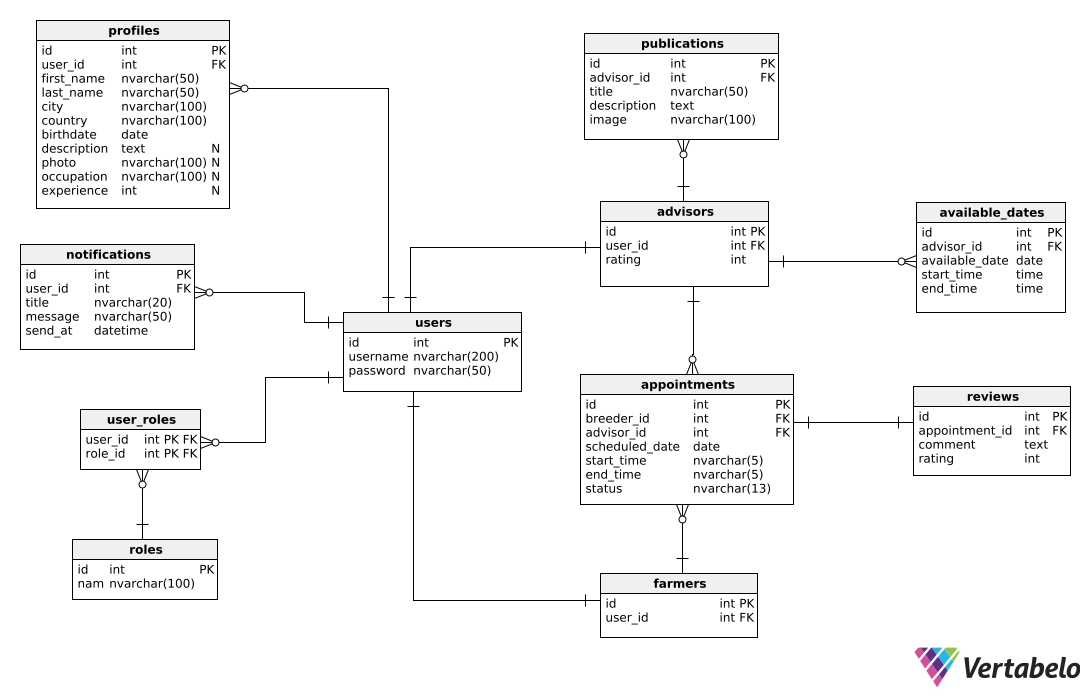
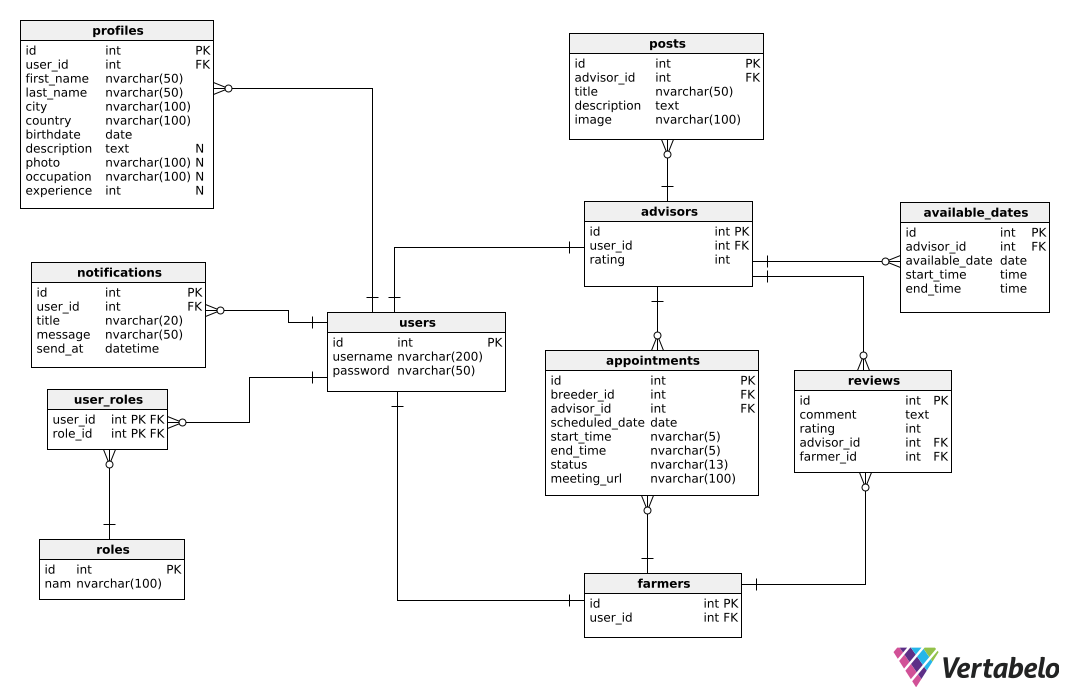
docs: update publication -> post

diff --git a/README.md b/README.md
@@ -2455,7 +2455,7 @@ Para Agrosupport, hemos desarrollado un sistema de etiquetado claro y conciso pa
       <td>Se implementará un botón que permitirá visualizar la información de las citas registradas.</td>
   </tr>
   <tr>
-      <th>My publications - Mis publicaciones</th>
+      <th>My posts - Mis publicaciones</th>
       <td>Se implementará un botón que permitirá al usuario ver el historial de sus publicaciones de ofertas de trabajo.</td>
   </tr>
   <tr>
@@ -3257,14 +3257,14 @@ _Imagen 165. Diagrama de Componentes: Profile_
 
 _Imagen 166. Diagrama de Componentes: Appointment_
 
-<img alt="Diagrama de Componentes: Publication" src="img/C4-PublicationComponentDiagram.png">
+<img alt="Diagrama de Componentes: Post" src="img/C4-PublicationComponentDiagram.png">
 
-_Imagen 167. Diagrama de Componentes: Publication_
+_Imagen 167. Diagrama de Componentes: Post_
 
 ### 3.2.2. Software Object-Oriented Design
 #### 3.2.2.1. Class Diagrams
 
-Los diagramas de clase son herramientas cruciales en el diseño de sistemas orientados a objetos, ya que proporcionan una representación visual de las clases y sus relaciones dentro del sistema. En esta sección, se presentarán los diagramas de clase que detallan la estructura de cada bounded context: Profile, Appointment y Publication.
+Los diagramas de clase son herramientas cruciales en el diseño de sistemas orientados a objetos, ya que proporcionan una representación visual de las clases y sus relaciones dentro del sistema. En esta sección, se presentarán los diagramas de clase que detallan la estructura de cada bounded context: Profile, Appointment y Post.
 
 
 <img alt="Diagrama de Clase: Profile" src="img/ClassDiagram_Profile.png">
@@ -3275,9 +3275,9 @@ _Imagen 168. Diagrama de Clase: Profile_
 
 _Imagen 169. Diagrama de Clase: Appointment_
 
-<img alt="Diagrama de Clase: Publication" src="img/ClassDiagram_Publication.png">
+<img alt="Diagrama de Clase: Post" src="img/ClassDiagram_Publication.png">
 
-_Imagen 170. Diagrama de Clase: Publication_
+_Imagen 170. Diagrama de Clase: Post_
 
 #### 3.2.2.2. Class Dictionary
 
@@ -3332,8 +3332,8 @@ En esta sección, se especificarán las características detalladas de cada clas
             <td>Representa los estados posibles de una cita: <em>PENDING</em>, <em>ONGOING</em>, <em>COMPLETED</em>, <em>REVIEWED</em>.</td>
         </tr>
         <tr>
-            <td>Publication</td>
-            <td>Representa una publicación hecha por un asesor. Incluye atributos como <em>id</em>, <em>title</em>, <em>description</em>, <em>image</em>, y un <em>advisor</em> asociado. Método principal: <em>getPublication()</em>.</td>
+            <td>Post</td>
+            <td>Representa una publicación hecha por un asesor. Incluye atributos como <em>id</em>, <em>title</em>, <em>description</em>, <em>image</em>, y un <em>advisor</em> asociado. Método principal: <em>getPost()</em>.</td>
         </tr>
     </tbody>
 </table>
@@ -3375,7 +3375,7 @@ El diseño de la base de datos es fundamental para garantizar una estructura só
             <td>Guarda información detallada sobre los usuarios, como el nombre del usuario, su país de origen, la url de su foto de perfil, etc.</td>
         </tr>
         <tr>
-            <td><strong>Publications</strong></td>
+            <td><strong>Posts</strong></td>
             <td>Almacena la información de las publicaciones de los asesores, incluyendo su título, descripción e imagen relacionada.</td>
         </tr>
         <tr>
@@ -3401,7 +3401,7 @@ El diseño de la base de datos es fundamental para garantizar una estructura só
 
 El diagrama de base de datos proporciona una representación visual de la estructura y las relaciones de las tablas dentro del sistema de gestión de base de datos.
 
-<img alt="Diagrama de Base de Datos" src="img/database2.png">
+<img alt="Diagrama de Base de Datos" src="img/database.png">
 
 _Imagen 171. Diagrama de base de datos_
 
